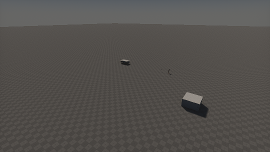
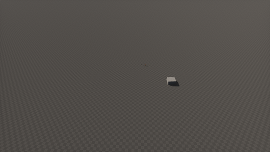
AI Manager

diff --git a/data/Scripts/AI/ShooterAI.cs b/data/Scripts/AI/ShooterAI.cs
@@ -7,35 +7,32 @@ using UnigineApp.data.Scripts.AI;
 public class ShooterAI : Component
 {
 
-    public Node MainCharacter;
+    Node MainCharacter;
     public AssetLinkNode BulletPrefab;
     public Node PhysicalTriggerNode;
-    public Node NavigationNode;
-
-    public List<Node> Obstacles;
-    public List<Node> Paths;
 
     bool isVisible = false, StartAI = false; 
     int CurrentHealth;
-    private double DistanceRatio, CurrentTime;
-    private float Weight, ViewDistance = 30;
+    double DistanceRatio, CurrentTime;
+    float Weight, ViewDistance = 30;
     
     PathMaker MainPath;
     HealthBar Health;
-    NavigationMaker NaviMesh;
     AIDetector Detection;
     AIShootingLogic Shooter;
 
     enum AISTATE { IDLE, ALERT, SEARCH, AGGRESSIVE, SHOOT, DODGE }
-    
     AISTATE STATE;
 
-    private void Init()
+    public void StartPathing() => StartAI = true;
+
+    public void SetAI(vec3 Position, List<dvec3> Paths, Node MainChar)
     {
         // write here code to be called on component initialization
         Weight = 0;
         STATE = AISTATE.IDLE;
 
+        MainCharacter = MainChar;
         Health = node.GetComponent<HealthBar>();
         CurrentHealth = Health.ShowHealth();
 
@@ -63,30 +60,20 @@ public class ShooterAI : Component
                 node.GetChild(0)
             );
 
-        NaviMesh = new NavigationMaker
-            (
-                1,
-                NavigationNode,
-                Obstacles,
-                Paths
-            );
-
         MainPath = new PathMaker
             (
                 4,
-                NaviMesh.GetModifiedPath(NaviMesh.GetPath())
+                Paths
             );
     }
 
-    private void Update()
+    public void UpdateMove()
     {
         // write here code to be called before updating each render frame
 
         Detection.CalculateView();
 
         Detection.RenderView();
-        NaviMesh.RenderNavigation();
-        NaviMesh.RenderObstacles();
         MainPath.RenderPath();
 
 
@@ -97,8 +84,6 @@ public class ShooterAI : Component
             isVisible = true;
         }
         else isVisible = false;
-
-        if (Unigine.Input.IsKeyDown(Input.KEY.C)) StartAI = true; // Event Start
         
         AiSTATE();
     }

diff --git a/data/Scripts/AI/AIManager.cs b/data/Scripts/AI/AIManager.cs
@@ -1,0 +1,56 @@
+using System;
+using System.Collections;
+using System.Collections.Generic;
+using Unigine;
+using UnigineApp.data.Scripts.AI;
+
+public struct PathList { public List<Node> Paths; }
+
+[Component(PropertyGuid = "049f940b8298d9ee0d44d8757a998f50a4251a6f")]
+public class AIManager : Component
+{
+	public Node NavNode, MainCharacter;
+	public AssetLinkNode AINode;
+	public List<Node> Obstacles;
+	public PathList[] PathLists;
+	NavigationMaker MainNav;
+
+	List<ShooterAI> AIList = new();
+	bool StartAI = false;
+
+	private void Init()
+	{
+		// write here code to be called on component initialization
+		MainNav = new NavigationMaker
+			(
+				1,
+				NavNode,
+				Obstacles,
+				PathLists[0].Paths
+				);
+
+		for (int i = 0; i < PathLists.Length; i++)
+		{
+			List<dvec3> Paths = new();
+			PathLists[i].Paths.ForEach(p => Paths.Add(p.WorldPosition));
+			Paths = MainNav.GetModifiedPath(Paths);
+			Node _AI = World.LoadNode(AINode.Path);
+			_AI.WorldPosition = Paths[0];
+
+			ShooterAI AI = GetComponent<ShooterAI>(_AI);
+			AI.SetAI((vec3)Paths[i], Paths, MainCharacter);
+			AIList.Add(AI);
+		}
+	}
+	
+	private void Update()
+	{
+		// write here code to be called before updating each render frame
+
+		MainNav.RenderNavigation();
+		MainNav.RenderObstacles();
+
+		if (Input.IsKeyDown(Input.KEY.C) && !StartAI) { StartAI = true; AIList.ForEach(p => p.StartPathing()); }
+		if (StartAI) { AIList.ForEach(p => p.UpdateMove()); }
+	}
+}

diff --git a/data/Scripts/AI/NavigationMaker.cs b/data/Scripts/AI/NavigationMaker.cs
@@ -20,7 +20,6 @@ namespace UnigineApp.data.Scripts.AI
         public void RenderNavigation() => NavMesh.RenderVisualizer();
         public void RenderObstacles() => ObstaclesList.ForEach(Obj => Obj.RenderVisualizer());
 
-
         public List<dvec3> GetPath() => PathPoints;
         public List<dvec3> GetModifiedPath(List<dvec3> list) {
 
@@ -30,7 +29,7 @@ namespace UnigineApp.data.Scripts.AI
 
             for (int i = 0; i < list.Count - 1; i++) {
                 Path.Create2D(list[i], list[i + 1]);
-                for (int j = 0; j < Path.NumPoints - 1; j++) {
+                for (int j = 0; j < Path.NumPoints; j++) {
 
                     Paths.Add(Path.GetPoint(j));
                 }
